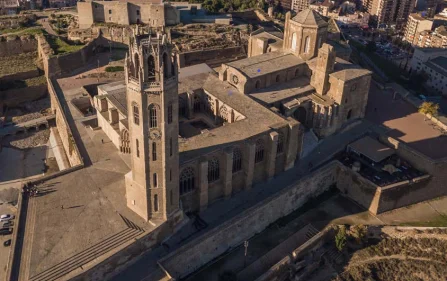
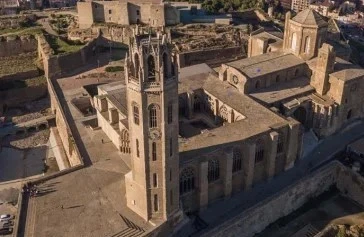
finish

diff --git a/src/js/funcions.js b/src/js/funcions.js
@@ -21,8 +21,8 @@ async function principal() {
     img.setAttribute('alt', 'llieda');    
     img.setAttribute('rel', 'preload');    
     img.setAttribute('as', 'image');  
-    img.setAttribute('width', '447px');  
-    img.setAttribute('height', '281px');  
+    img.setAttribute('width', '427px');  
+    img.setAttribute('height', '261px');  
     img.setAttribute('loading', 'lazy');  
     img.classList.add('fotografia');    
     img.classList.add('clip-animation');        
